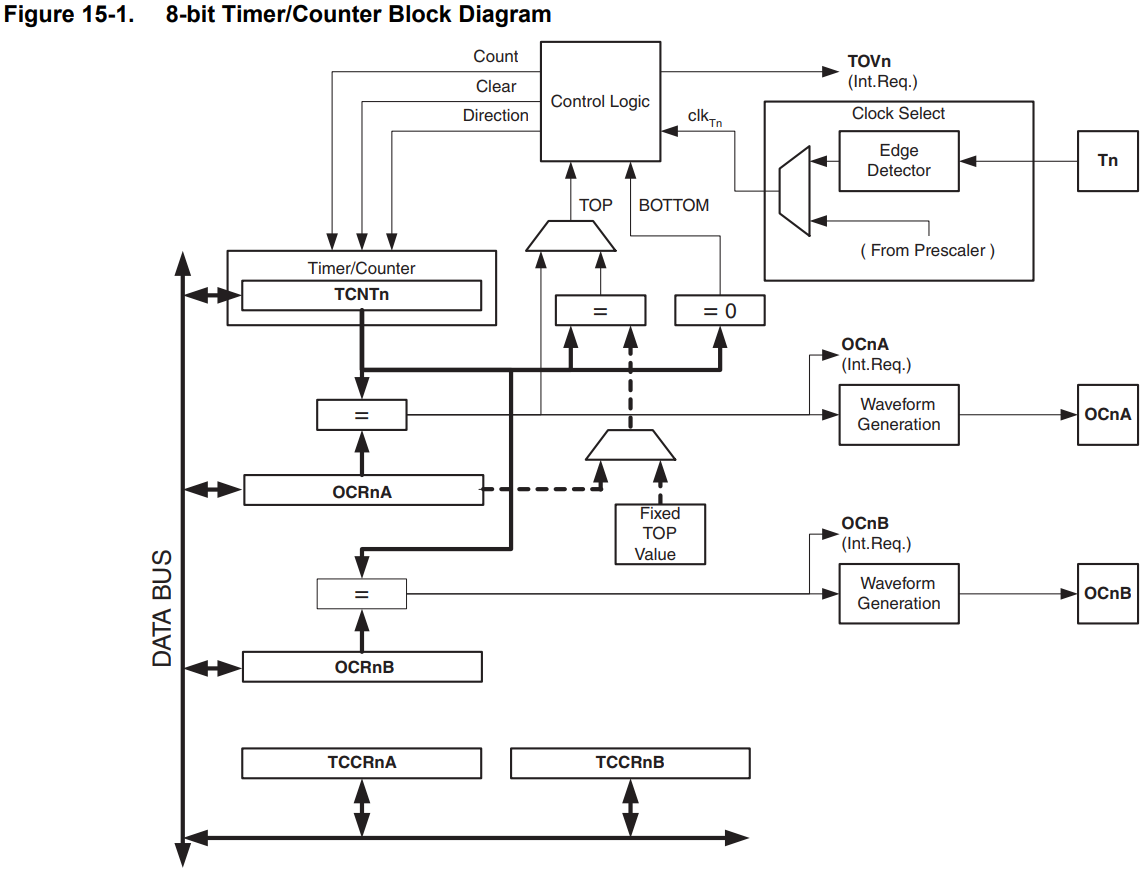
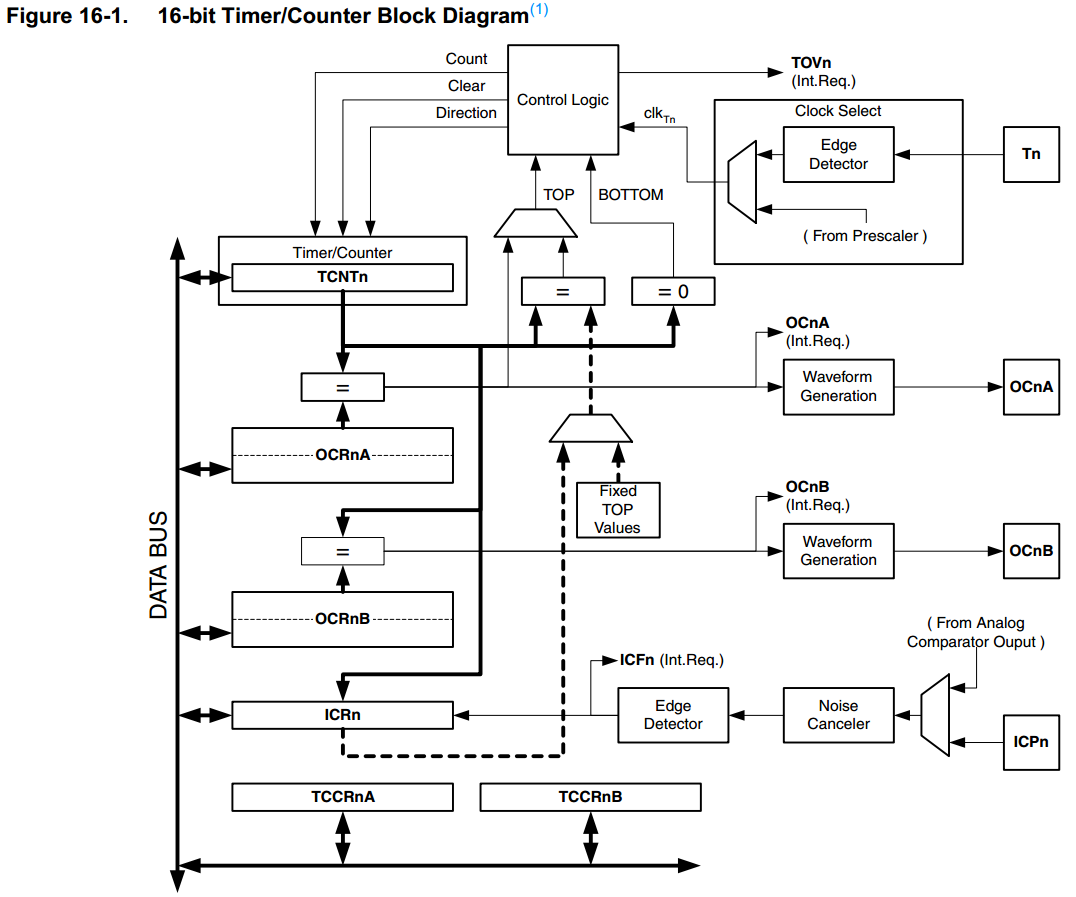
wip

Changed region(s): [[0.0, 0.0, 1.0, 0.9886], [0.9201, 0.4016, 1.0, 0.5252], [0.6747, 0.7723, 0.7361, 0.8032]]

diff --git a/OS/source/chap1/mains/main_blinking_timer.c b/OS/source/chap1/mains/main_blinking_timer.c
@@ -1,32 +1,17 @@
 #include <avr/io.h>
 
-
 int main(void) {
 
-  unsigned char x=0, y=0;
+  unsigned char y=0, x=0;
 
-  DDRB = (1<<5);
-  /* The OC0A value will not be visible on the port pin unless the data direction for the pin is set to output. */
+  DDRB = (1<<5);                    // set bit as output
+  TCCR1A = 0x0;                     // set part of "mode of operation"
+  TCCR1B = 0x4;                     // set part of "mode of operation" & clock prescaler
 
-
-  TCCR1A = 0x0;
-  TCCR1B = 0xD;
-  
-  OCR1AH = 0x3F;
-  OCR1AL = 0xFF;
-
-  /*
-  16 MHz / 1024 => 15625 Hz
-  15625 Hz / 256 => 61.03 Hz
-  */
   while(1) {
-
-    if(TIFR1 & 0x2) {
-      x = (x+1)%2;
-      PORTB &= ~(1<<5); // clear the LED
-      PORTB |= (x<<5); // write the LED
-
-      TIFR1 &= 0b11111101; // clear the flag
-    }
+                                    // read and shift MSB of 16-bit wide counter
+    x = (unsigned char)((TCNT1 & 0x8000)>>15);
+                                    // shift and write the LED
+    PORTB = (PORTB & 0b11011111) | (x<<5);
   }
 }

diff --git a/OS/content/chap1.md b/OS/content/chap1.md
@@ -116,13 +116,13 @@ void setup()
 void loop()
 {
   digitalWrite(13, HIGH);
-  delay(1000);
+  delay(500);
   digitalWrite(13, LOW);
-  delay(1000);
+  delay(500);
 }
 ```
 
-This snippet of C code is wrapped by the **IDE** into a complete C program. Through the toolchain that is applied a lot of _magic_ happens that hides certain more complex aspects from the programmer. 
+This snippet of C code is wrapped by the **IDE** into a complete C program. Through the tool chain that is applied a lot of _magic_ happens that hides certain more complex aspects from the programmer. 
 
 Writing the same program in C for the Arduino is a bit less aesthetic.
 
@@ -157,39 +157,80 @@ int main(void) {
 A number of things can be said about both examples.
 
 1. Addresses and bit positions have to be looked up in the datasheet;
-2. The "Setup and Loop"-function approach can be mimiced.
+2. The "Setup and Loop"-function approach can be mimicked.
 3. The **delay(x)** function is missing
 
 Of course the C program can be written more dense. But, in the end, there is not too much difference between both pieces of code.
 
-## 8-bit Timer
-One component that is in almost every microcontroller is a Timer. This timer can be used for many things: stopwatch, wave generation, timing, ... The block diagram of an 8-bit counter in the Arduino is shown here. There are 2 such counters (0 and 1) available.
+## 16-bit Timer
+One component that is in almost every microcontroller is a Timer/counter. This timer/counter can be used for many things: stopwatch, wave generation, timing, ... The block diagram of the 16-bit timer/counter in the Arduino is shown here. Next to this 16-bit timer/counter there are 2 8-bit timer/counters available.
 
 <center><img src="/img/0x_12.png" alt="Block Diagram of an 8-bit counter in the Arduino microcontroller"/></center>
 
-As can be seen from the block diagram 5 (3+2) registers are available for interaction with the software:
+As can be seen from the block diagram 6 (4+2) registers are available for interaction with the software:
 
 * **TCCRnA:** Timer/Counter Control Register for counter n OCR A (also available for B)
 * **OCRnA:** Output Compare Register A for counter n (also available for B)
-* **TCNTn:** Timer Count for counter n
+* **TCNTn:** Timer/counter value for counter n
+* **ICRn:** Input capture something something
+
+<div style="background-color: #F00; color: yellow; font-weight: bold; text-align: center">TODO: ICRn</div>
 
 However, before getting into the details of configuring and using the Timer, the clock has be considered.
 
-To introduce a concept of time, a [crystal oscillator](https://en.wikipedia.org/wiki/Crystal_oscillator) is used. The one on the Arduino UNO board runs at a frequency of 16'000'000 Hz or 16 MHz. This is frequency at which the CPU is working, often refered to as the _clock speed_.
+To introduce a concept of time, a [crystal oscillator](https://en.wikipedia.org/wiki/Crystal_oscillator) is used. The one on the Arduino UNO board runs at a frequency of 16'000'000 Hz or 16 MHz. This is frequency at which the CPU is working, often referred to as the _clock speed_.
 
-Both 8-bit timers (0 and 1) have a hardware prescaler. Such a prescaler divides the frequency of the clock with a certain power of 2 and allows the developer to choose a more suitable frequency. With this clock, the timer can be configured to 
+The timer has a hardware prescaler. Such a prescaler divides the frequency of the clock with a certain power of 2 and allows the developer to choose a more suitable frequency. With this clock, the timer can be configured to divide the incoming frequency by 1024 (= 2<sup>10</sup>). This sets the incoming clock frequency to 16__x__10<sup>6</sup> / 2<sup>10</sup> = 15'325 Hz.
 
-When the Timer/counter is running, it can count bi-directionaly. This counter is a hardware component that you also are (or soon: will be) able to described in an HDL. There are multiple modes of operation in which the Timer/Counter can operate. With each mode of operation a certain waveform is generated.
+When the Timer/counter is running, it can count bi-directionally. This counter is a hardware component that you also are (or soon: will be) able to described in an HDL. There are multiple modes of operation in which the Timer/Counter can operate. With each mode of operation a certain waveform is generated.
 
 <center><img src="/img/0x_13.png" alt="The different modes of operation to which the Timer/Counter can be configured"/></center>
 
-Now let's configure the timer so it can be used to overcome the need for the **delay()** function. The following configuration will be made:
-
-* 
-* Set the desired mode of operation to Clear Timer on Compare Match (CTC)
+Now let's configure the timer so it can be used to overcome the need for the **delay()** function. In the **Normal** mode of operation, the timer/counter counts to 0xFFFF. This means the MSB toggles at a frequency of approximately 2 Hz (15'325 Hz / 0xFFFF * 2 ). The C-code that is required to achieve this is shown below.
 
 
+```C
+#include <avr/io.h>
 
+int main(void) {
+
+  unsigned char y=0, x=0;
+
+  DDRB = (1<<5);            // set PORTB_5 as output
+  TCCR1A = 0x0;             // set part of "mode of operation"
+  TCCR1B = 0x4;             // set part of "mode of operation" & clock prescaler
+
+  while(1) {
+                            // read and shift MSB of 16-bit wide counter
+    x = (unsigned char)((TCNT1 & 0x8000)>>15);
+                            // shift and write the LED
+    PORTB = (PORTB & 0b11011111) | (x<<5);
+  }
+}
+```
+
+Note that the CR's can be accessed with their names. TCCR1A is the Timer/Counter Control Register (of timer/counter1) A. The translation from this name to the correct address is done by **#include <avr/io.h>** line. This include will subsequently load a header file which has all the mappings for the targeted microcontroller. This choice is made through the CLI-arguments that are given in the tool chain.
+
+
+## Interrupts
+In the example above it is up to the programmer to check if the timer has finished. Also for the Arduino example this can be said. The execution of the **delay()** function is also waiting until the delay is over. This waiting for an event is called: **polling**. A nice illustration for this is shown below.
+
+{{< youtube id="O_sO39FXL68" >}}
+&nbsp;
+
+Another example is given by a cartoon.
+
+{{< youtube id="18AzodTPG5U" >}}
+&nbsp;
+
+Would it not be nice that the CPU could just continue working on something else until a certain event occurs. In the second example (that of the cartoon), the _woman_ interrupts what the _processor_ was doing.
+
+An **interrupt** is a signal that goes to the processor to signal a certain event. There are two sources for this interrupt: hardware and software. The timer that reaches his maximum count and signals this to the processor is an example of a hardware interrupt. An example for a software interrupt could be an attempt of a division by zero.
+
+<center><img src="/img/0x_14.png" alt="The interrupts in the Arduino's microcontroller."/></center>
+
+
+TODO: nested interrupts are possible, though it requires user software to re-enable interrupts
 
 
 ## Take aways:

diff --git a/OS/content/_index.md b/OS/content/_index.md
@@ -1,0 +1,7 @@
+---
+title: "Operating Systems and C"
+date: 2019-06-07
+draft: true
+---
+
+hello world
